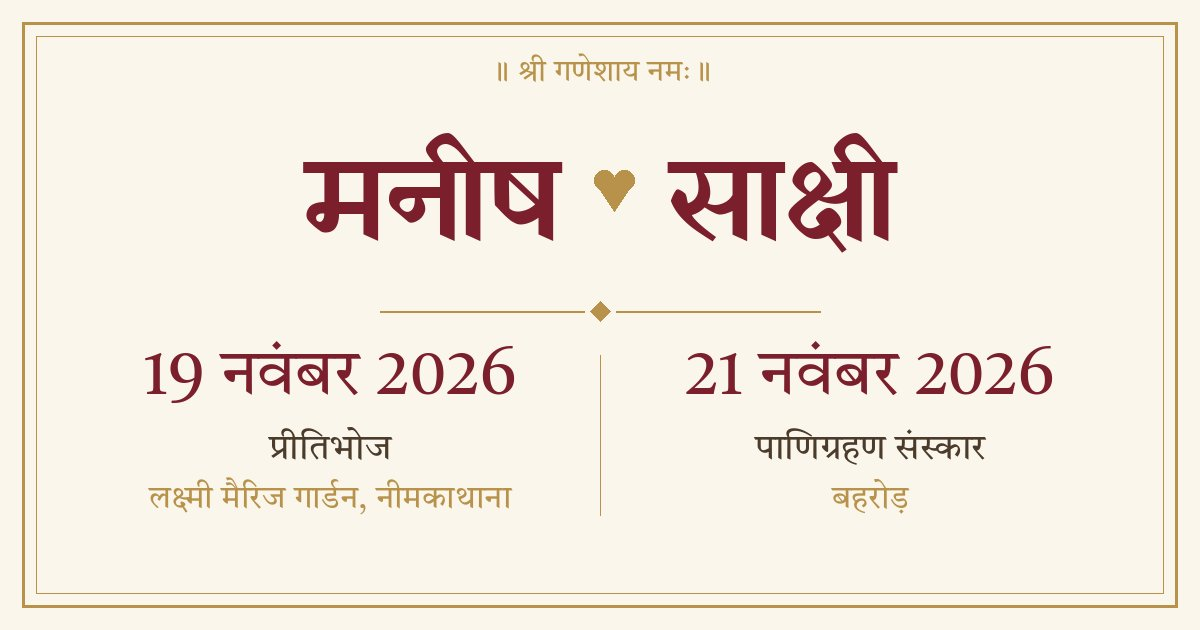
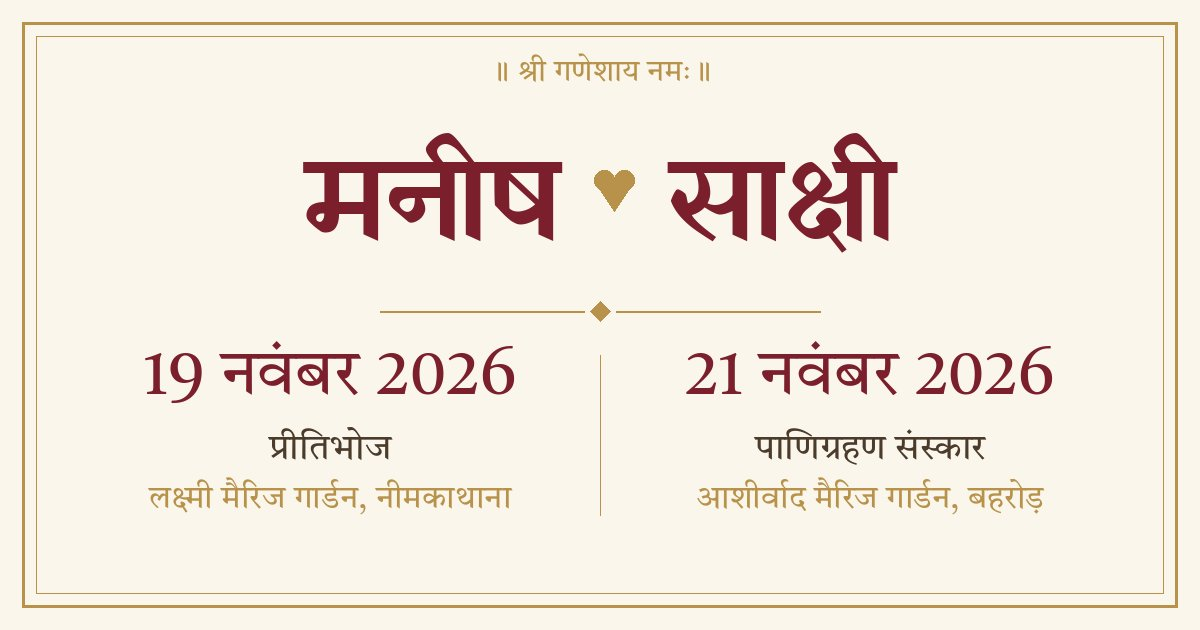
Consistent family names (जी) and पाणिग्रहण details on both pages

Changed region(s): [[0.5858, 0.754, 0.8633, 0.8143]]

diff --git a/index.html b/index.html
@@ -638,6 +638,41 @@ body.lighting-velvet::before {
 .filmstrip-cap { position: absolute; bottom: 0; left: 0; right: 0; background: rgba(0,0,0,0.7); color: #fff; font-size: .65rem; padding: 4px 6px; text-align: center; white-space: nowrap; overflow: hidden; text-overflow: ellipsis; }
 
 @media(prefers-reduced-motion:reduce){*,*::before,*::after{animation-duration:.01ms!important;transition-duration:.01ms!important}.rv{opacity:1;transform:none}.welcome{display:none!important}html{scroll-snap-type:none}.hero-name .letter{opacity:1;transform:none}}
+
+/* ── Essentials first screen: names · parents · dates · places (styles: traditional | modern | festive) ── */
+.hero-ess{min-height:100svh;display:flex;flex-direction:column;align-items:center;justify-content:center;text-align:center;padding:48px 20px 64px;gap:22px}
+.hero-ess .ess-top{font-size:.85rem;color:var(--gold-dim,#6a5838);letter-spacing:.08em}
+.ess-couple{display:flex;flex-direction:column;align-items:center;gap:6px;width:100%;max-width:520px}
+.ess-person{display:flex;flex-direction:column;align-items:center;gap:4px}
+.ess-prefix{font-size:.85rem;color:var(--fg-muted,#706858)}
+.ess-name{margin:0;font-family:'Yatra One',cursive;font-weight:400;font-size:clamp(2.6rem,12vw,4rem);line-height:1.1;color:var(--ruby,#7a1f2b)}
+.ess-parents{font-size:.9rem;line-height:1.6;color:var(--fg,#2a2418);max-width:30ch}
+.ess-conn{font-family:'Playfair Display',serif;font-style:italic;font-size:1.2rem;color:var(--gold,#8a7850);margin:6px 0}
+.ess-dates{display:flex;flex-wrap:wrap;justify-content:center;gap:14px;width:100%;max-width:560px}
+.ess-date{flex:1 1 200px;display:flex;flex-direction:column;align-items:center;gap:4px;padding:14px 12px}
+.ess-day{font-size:2.6rem;line-height:1;color:var(--ruby,#7a1f2b);font-family:'Tiro Devanagari Hindi',serif}
+.ess-month{font-size:1rem;color:var(--fg,#2a2418)}
+.ess-events{font-size:.95rem;font-weight:600;color:var(--fg,#2a2418)}
+.ess-place{display:inline-flex;align-items:center;gap:6px;min-height:44px;padding:8px 14px;border-radius:999px;font-size:.88rem;color:var(--gold-dim,#6a5838);border:1px solid var(--surface-border,rgba(160,140,100,.3));text-decoration:none}
+.ess-place:active{transform:scale(.98)}
+/* traditional: framed, ornamental */
+.hero-ess--traditional{background:var(--bg,#fdfbf7)}
+.hero-ess--traditional .ess-couple{padding:26px 18px;border:3px double var(--gold,#8a7850);border-radius:4px}
+.hero-ess--traditional .ess-conn::before,.hero-ess--traditional .ess-conn::after{content:'❖';font-style:normal;font-size:.7rem;margin:0 10px;vertical-align:middle;color:var(--gold,#8a7850)}
+.hero-ess--traditional .ess-date+.ess-date{border-left:1px solid var(--surface-border,rgba(160,140,100,.3))}
+/* modern: whitespace, thin rules, no ornament */
+.hero-ess--modern{background:var(--bg,#fdfbf7);gap:28px}
+.hero-ess--modern .ess-name{font-family:'Playfair Display','Tiro Devanagari Hindi',serif;font-weight:600;color:var(--fg,#2a2418);letter-spacing:.01em}
+.hero-ess--modern .ess-conn{font-size:.95rem;letter-spacing:.3em;text-transform:uppercase}
+.hero-ess--modern .ess-dates{border-top:1px solid var(--fg-dim,#a09888);border-bottom:1px solid var(--fg-dim,#a09888)}
+.hero-ess--modern .ess-day{color:var(--fg,#2a2418)}
+.hero-ess--modern .ess-place{border:none;text-decoration:underline;text-underline-offset:4px}
+/* festive: warm wash, card dates */
+.hero-ess--festive{background:radial-gradient(120% 70% at 50% 0%,rgba(255,183,77,.28),transparent 60%),var(--bg,#fdfbf7)}
+.hero-ess--festive .ess-name{color:var(--ruby,#a0283a)}
+.hero-ess--festive .ess-conn{font-size:1.6rem;color:#e08a1e}
+.hero-ess--festive .ess-date{background:var(--surface,rgba(255,255,255,.7));border:1px solid rgba(224,138,30,.35);border-radius:16px;box-shadow:0 6px 18px rgba(224,138,30,.12)}
+.hero-ess--festive .ess-place{background:#e08a1e;border-color:#e08a1e;color:#fff}
 </style>
 </head>
 <body>
@@ -1141,6 +1176,75 @@ function buildModularHTML(c){
   return h;
 }
 
+// Essentials first screen — the same names/parents/dates/places for every style.
+function essStrip(s){ return String(s || '').replace(/<[^>]+>/g, ' ').replace(/\s+/g, ' ').trim(); }
+function essEsc(s){ return String(s).replace(/&/g,'&amp;').replace(/</g,'&lt;').replace(/>/g,'&gt;').replace(/"/g,'&quot;'); }
+
+function essParents(person){
+  if(person.parents) return (person.relation ? person.relation + ' ' : '') + person.parents;
+  var lines = String(person.lineage || '').split(/<br\s*\/?>|\n/);
+  for(var i = 0; i < lines.length; i++){
+    var line = essStrip(lines[i]);
+    if(line && !/पौत्र|पौत्री|grand/i.test(line)) return line;
+  }
+  return '';
+}
+
+function essDateGroups(c){
+  var groups = [], year = ((c.date && c.date.iso) || '').slice(0, 4);
+  (c.events || []).forEach(function(e){
+    if(!e.main) return;
+    var month = essStrip(e.month);
+    if(year && !/\d{4}/.test(month)) month += ' ' + year;
+    var name = essStrip(String(e.name || '').replace(/\(.*?\)/g, ''));
+    for(var i = 0; i < groups.length; i++){
+      if(groups[i].day === String(e.date) && groups[i].month === month){ groups[i].names.push(name); return; }
+    }
+    groups.push({day: String(e.date || ''), month: month, names: [name], place: essStrip(e.location), mapUrl: e.mapUrl});
+  });
+  if(!groups.length && c.date){
+    groups.push({day: c.date.day, month: c.date.month, names: [], place: essStrip(c.venue && c.venue.name)});
+  }
+  return groups.slice(0, 2);
+}
+
+function essMapUrl(c, g){
+  if(g.mapUrl) return g.mapUrl;
+  var v = c.venue || {};
+  if(v.mapUrl && v.name && g.place.indexOf(essStrip(v.name)) !== -1) return v.mapUrl;
+  return 'https://www.google.com/maps/search/?api=1&query=' + encodeURIComponent(g.place);
+}
+
+function renderHeroEssentials(c, guestBannerHtml){
+  var style = (c.design && c.design.style) || 'traditional';
+  var bf = (c.couple.order === 'bride-first') || c.perspective === 'bride';
+  var people = bf ? [c.couple.bride, c.couple.groom] : [c.couple.groom, c.couple.bride];
+  var h = '<section class="panel hero-ess hero-ess--' + essEsc(style) + '">';
+  if(c.invocation && c.invocation.top) h += '<div class="ess-top">' + c.invocation.top + '</div>';
+  h += guestBannerHtml;
+  h += '<div class="ess-couple">';
+  people.forEach(function(p, i){
+    if(i === 1) h += '<div class="ess-conn">' + (c.couple.connector || '&') + '</div>';
+    var parents = essParents(p);
+    h += '<div class="ess-person">';
+    if(p.prefix) h += '<div class="ess-prefix">' + essEsc(p.prefix) + '</div>';
+    h += '<h1 class="ess-name">' + essEsc(p.name) + '</h1>';
+    if(parents) h += '<div class="ess-parents">' + essEsc(parents) + '</div>';
+    h += '</div>';
+  });
+  h += '</div><div class="ess-dates">';
+  essDateGroups(c).forEach(function(g){
+    h += '<div class="ess-date"><div class="ess-day">' + essEsc(g.day) + '</div><div class="ess-month">' + essEsc(g.month) + '</div>';
+    if(g.names.length) h += '<div class="ess-events">' + essEsc(g.names.join(' · ')) + '</div>';
+    if(g.place) h += '<a class="ess-place" href="' + essEsc(essMapUrl(c, g)) + '" target="_blank" rel="noopener">📍 ' + essEsc(g.place) + '</a>';
+    h += '</div>';
+  });
+  h += '</div>';
+  h += '<div class="hero-scroll"><svg viewBox="0 0 24 24" fill="none" stroke-width="2" stroke-linecap="round"><polyline points="6,9 12,15 18,9"/></svg></div>';
+  h += '</section>';
+  return h;
+}
+
 function renderHeroSection(c){
   var layout = (c.design && c.design.heroLayout) || 'haveli';
   var isHi = c.lang !== 'en';
@@ -1171,6 +1275,8 @@ function renderHeroSection(c){
     guestBannerHtml += '<button type="button" class="vip-pass-trigger" onclick="openVipModal()">🎟 ' + (isHi ? 'VIP प्रवेश पास देखें (View Pass)' : 'View VIP Gate Pass') + '</button>';
     guestBannerHtml += '</div>';
   }
+
+  if(layout === 'essentials') return renderHeroEssentials(c, guestBannerHtml);
 
   // Archetype 1: Vogue High-Fashion Editorial Cover
   if(layout === 'vogue'){

diff --git a/sakshi-manish/index.html b/sakshi-manish/index.html
@@ -638,6 +638,41 @@ body.lighting-velvet::before {
 .filmstrip-cap { position: absolute; bottom: 0; left: 0; right: 0; background: rgba(0,0,0,0.7); color: #fff; font-size: .65rem; padding: 4px 6px; text-align: center; white-space: nowrap; overflow: hidden; text-overflow: ellipsis; }
 
 @media(prefers-reduced-motion:reduce){*,*::before,*::after{animation-duration:.01ms!important;transition-duration:.01ms!important}.rv{opacity:1;transform:none}.welcome{display:none!important}html{scroll-snap-type:none}.hero-name .letter{opacity:1;transform:none}}
+
+/* ── Essentials first screen: names · parents · dates · places (styles: traditional | modern | festive) ── */
+.hero-ess{min-height:100svh;display:flex;flex-direction:column;align-items:center;justify-content:center;text-align:center;padding:48px 20px 64px;gap:22px}
+.hero-ess .ess-top{font-size:.85rem;color:var(--gold-dim,#6a5838);letter-spacing:.08em}
+.ess-couple{display:flex;flex-direction:column;align-items:center;gap:6px;width:100%;max-width:520px}
+.ess-person{display:flex;flex-direction:column;align-items:center;gap:4px}
+.ess-prefix{font-size:.85rem;color:var(--fg-muted,#706858)}
+.ess-name{margin:0;font-family:'Yatra One',cursive;font-weight:400;font-size:clamp(2.6rem,12vw,4rem);line-height:1.1;color:var(--ruby,#7a1f2b)}
+.ess-parents{font-size:.9rem;line-height:1.6;color:var(--fg,#2a2418);max-width:30ch}
+.ess-conn{font-family:'Playfair Display',serif;font-style:italic;font-size:1.2rem;color:var(--gold,#8a7850);margin:6px 0}
+.ess-dates{display:flex;flex-wrap:wrap;justify-content:center;gap:14px;width:100%;max-width:560px}
+.ess-date{flex:1 1 200px;display:flex;flex-direction:column;align-items:center;gap:4px;padding:14px 12px}
+.ess-day{font-size:2.6rem;line-height:1;color:var(--ruby,#7a1f2b);font-family:'Tiro Devanagari Hindi',serif}
+.ess-month{font-size:1rem;color:var(--fg,#2a2418)}
+.ess-events{font-size:.95rem;font-weight:600;color:var(--fg,#2a2418)}
+.ess-place{display:inline-flex;align-items:center;gap:6px;min-height:44px;padding:8px 14px;border-radius:999px;font-size:.88rem;color:var(--gold-dim,#6a5838);border:1px solid var(--surface-border,rgba(160,140,100,.3));text-decoration:none}
+.ess-place:active{transform:scale(.98)}
+/* traditional: framed, ornamental */
+.hero-ess--traditional{background:var(--bg,#fdfbf7)}
+.hero-ess--traditional .ess-couple{padding:26px 18px;border:3px double var(--gold,#8a7850);border-radius:4px}
+.hero-ess--traditional .ess-conn::before,.hero-ess--traditional .ess-conn::after{content:'❖';font-style:normal;font-size:.7rem;margin:0 10px;vertical-align:middle;color:var(--gold,#8a7850)}
+.hero-ess--traditional .ess-date+.ess-date{border-left:1px solid var(--surface-border,rgba(160,140,100,.3))}
+/* modern: whitespace, thin rules, no ornament */
+.hero-ess--modern{background:var(--bg,#fdfbf7);gap:28px}
+.hero-ess--modern .ess-name{font-family:'Playfair Display','Tiro Devanagari Hindi',serif;font-weight:600;color:var(--fg,#2a2418);letter-spacing:.01em}
+.hero-ess--modern .ess-conn{font-size:.95rem;letter-spacing:.3em;text-transform:uppercase}
+.hero-ess--modern .ess-dates{border-top:1px solid var(--fg-dim,#a09888);border-bottom:1px solid var(--fg-dim,#a09888)}
+.hero-ess--modern .ess-day{color:var(--fg,#2a2418)}
+.hero-ess--modern .ess-place{border:none;text-decoration:underline;text-underline-offset:4px}
+/* festive: warm wash, card dates */
+.hero-ess--festive{background:radial-gradient(120% 70% at 50% 0%,rgba(255,183,77,.28),transparent 60%),var(--bg,#fdfbf7)}
+.hero-ess--festive .ess-name{color:var(--ruby,#a0283a)}
+.hero-ess--festive .ess-conn{font-size:1.6rem;color:#e08a1e}
+.hero-ess--festive .ess-date{background:var(--surface,rgba(255,255,255,.7));border:1px solid rgba(224,138,30,.35);border-radius:16px;box-shadow:0 6px 18px rgba(224,138,30,.12)}
+.hero-ess--festive .ess-place{background:#e08a1e;border-color:#e08a1e;color:#fff}
 </style>
 </head>
 <body>
@@ -1141,6 +1176,75 @@ function buildModularHTML(c){
   return h;
 }
 
+// Essentials first screen — the same names/parents/dates/places for every style.
+function essStrip(s){ return String(s || '').replace(/<[^>]+>/g, ' ').replace(/\s+/g, ' ').trim(); }
+function essEsc(s){ return String(s).replace(/&/g,'&amp;').replace(/</g,'&lt;').replace(/>/g,'&gt;').replace(/"/g,'&quot;'); }
+
+function essParents(person){
+  if(person.parents) return (person.relation ? person.relation + ' ' : '') + person.parents;
+  var lines = String(person.lineage || '').split(/<br\s*\/?>|\n/);
+  for(var i = 0; i < lines.length; i++){
+    var line = essStrip(lines[i]);
+    if(line && !/पौत्र|पौत्री|grand/i.test(line)) return line;
+  }
+  return '';
+}
+
+function essDateGroups(c){
+  var groups = [], year = ((c.date && c.date.iso) || '').slice(0, 4);
+  (c.events || []).forEach(function(e){
+    if(!e.main) return;
+    var month = essStrip(e.month);
+    if(year && !/\d{4}/.test(month)) month += ' ' + year;
+    var name = essStrip(String(e.name || '').replace(/\(.*?\)/g, ''));
+    for(var i = 0; i < groups.length; i++){
+      if(groups[i].day === String(e.date) && groups[i].month === month){ groups[i].names.push(name); return; }
+    }
+    groups.push({day: String(e.date || ''), month: month, names: [name], place: essStrip(e.location), mapUrl: e.mapUrl});
+  });
+  if(!groups.length && c.date){
+    groups.push({day: c.date.day, month: c.date.month, names: [], place: essStrip(c.venue && c.venue.name)});
+  }
+  return groups.slice(0, 2);
+}
+
+function essMapUrl(c, g){
+  if(g.mapUrl) return g.mapUrl;
+  var v = c.venue || {};
+  if(v.mapUrl && v.name && g.place.indexOf(essStrip(v.name)) !== -1) return v.mapUrl;
+  return 'https://www.google.com/maps/search/?api=1&query=' + encodeURIComponent(g.place);
+}
+
+function renderHeroEssentials(c, guestBannerHtml){
+  var style = (c.design && c.design.style) || 'traditional';
+  var bf = (c.couple.order === 'bride-first') || c.perspective === 'bride';
+  var people = bf ? [c.couple.bride, c.couple.groom] : [c.couple.groom, c.couple.bride];
+  var h = '<section class="panel hero-ess hero-ess--' + essEsc(style) + '">';
+  if(c.invocation && c.invocation.top) h += '<div class="ess-top">' + c.invocation.top + '</div>';
+  h += guestBannerHtml;
+  h += '<div class="ess-couple">';
+  people.forEach(function(p, i){
+    if(i === 1) h += '<div class="ess-conn">' + (c.couple.connector || '&') + '</div>';
+    var parents = essParents(p);
+    h += '<div class="ess-person">';
+    if(p.prefix) h += '<div class="ess-prefix">' + essEsc(p.prefix) + '</div>';
+    h += '<h1 class="ess-name">' + essEsc(p.name) + '</h1>';
+    if(parents) h += '<div class="ess-parents">' + essEsc(parents) + '</div>';
+    h += '</div>';
+  });
+  h += '</div><div class="ess-dates">';
+  essDateGroups(c).forEach(function(g){
+    h += '<div class="ess-date"><div class="ess-day">' + essEsc(g.day) + '</div><div class="ess-month">' + essEsc(g.month) + '</div>';
+    if(g.names.length) h += '<div class="ess-events">' + essEsc(g.names.join(' · ')) + '</div>';
+    if(g.place) h += '<a class="ess-place" href="' + essEsc(essMapUrl(c, g)) + '" target="_blank" rel="noopener">📍 ' + essEsc(g.place) + '</a>';
+    h += '</div>';
+  });
+  h += '</div>';
+  h += '<div class="hero-scroll"><svg viewBox="0 0 24 24" fill="none" stroke-width="2" stroke-linecap="round"><polyline points="6,9 12,15 18,9"/></svg></div>';
+  h += '</section>';
+  return h;
+}
+
 function renderHeroSection(c){
   var layout = (c.design && c.design.heroLayout) || 'haveli';
   var isHi = c.lang !== 'en';
@@ -1171,6 +1275,8 @@ function renderHeroSection(c){
     guestBannerHtml += '<button type="button" class="vip-pass-trigger" onclick="openVipModal()">🎟 ' + (isHi ? 'VIP प्रवेश पास देखें (View Pass)' : 'View VIP Gate Pass') + '</button>';
     guestBannerHtml += '</div>';
   }
+
+  if(layout === 'essentials') return renderHeroEssentials(c, guestBannerHtml);
 
   // Archetype 1: Vogue High-Fashion Editorial Cover
   if(layout === 'vogue'){
